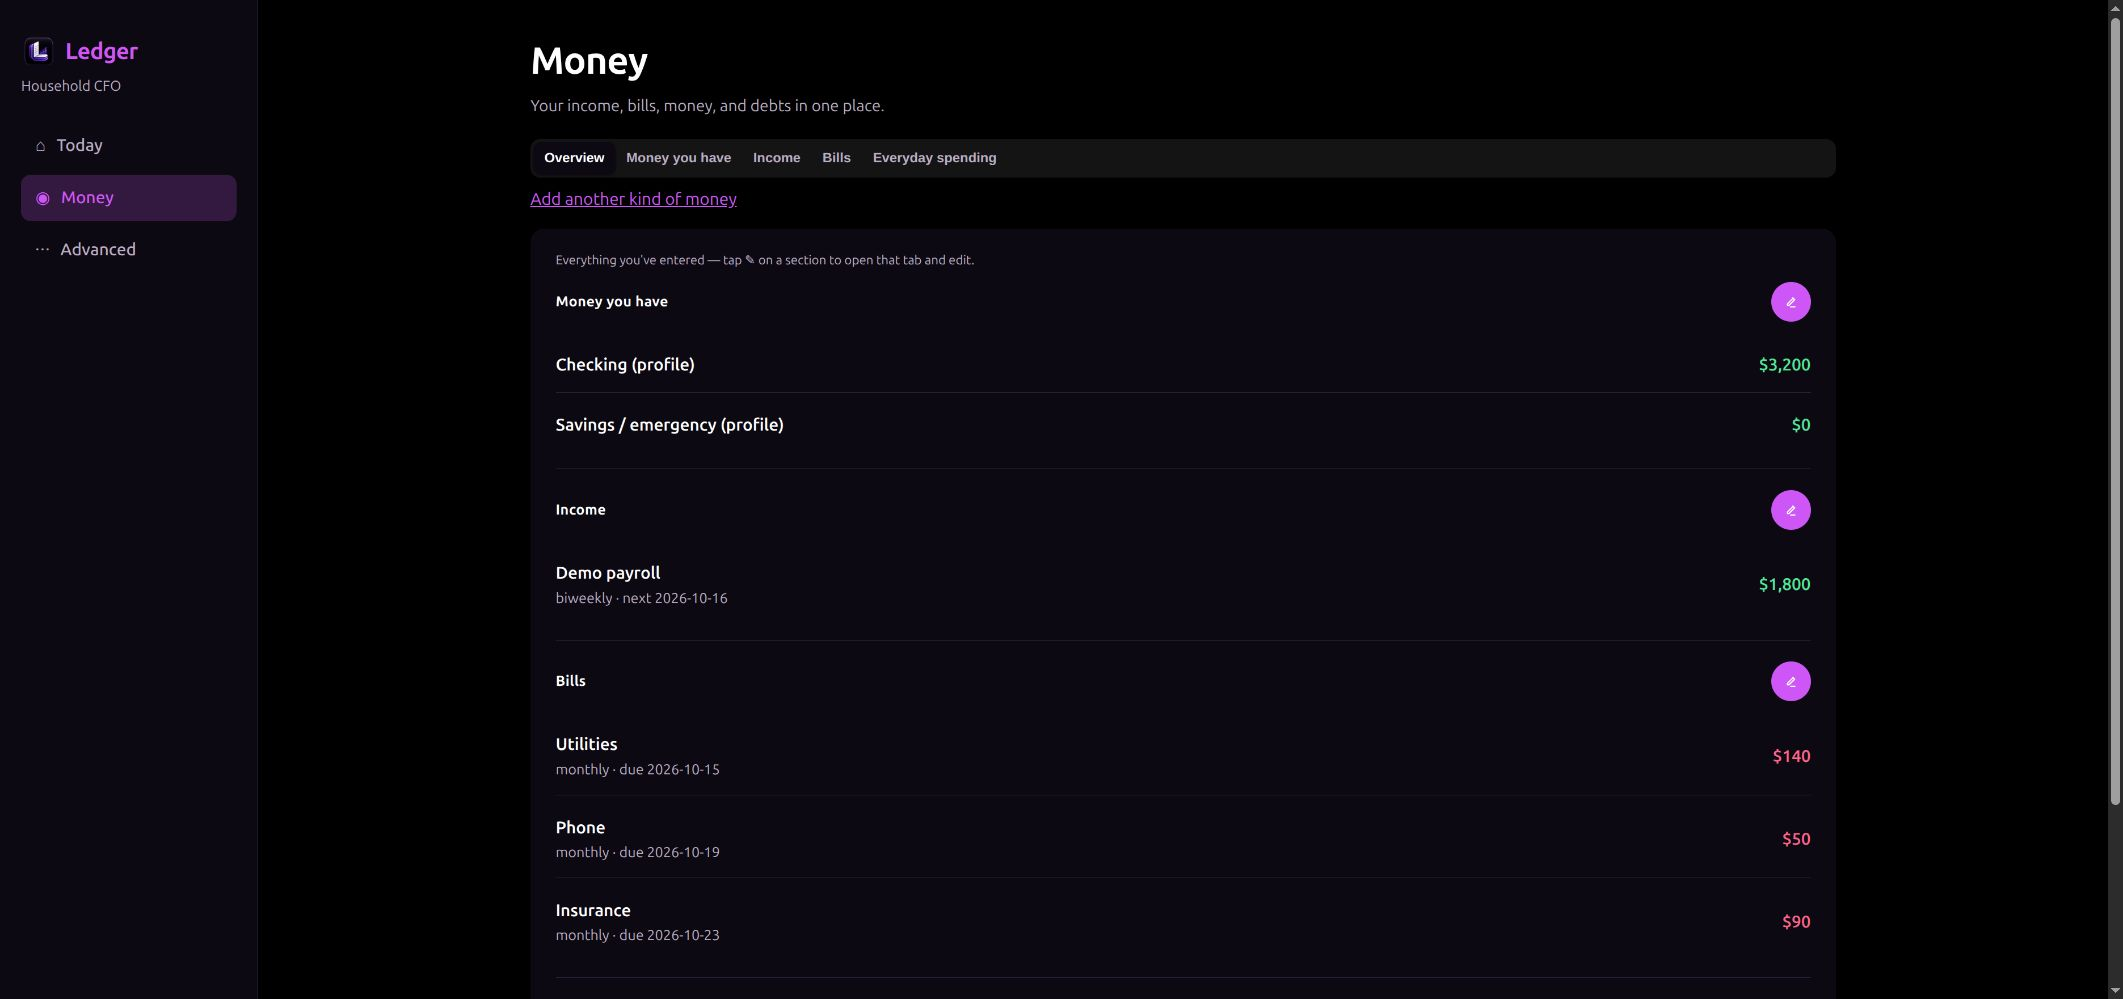
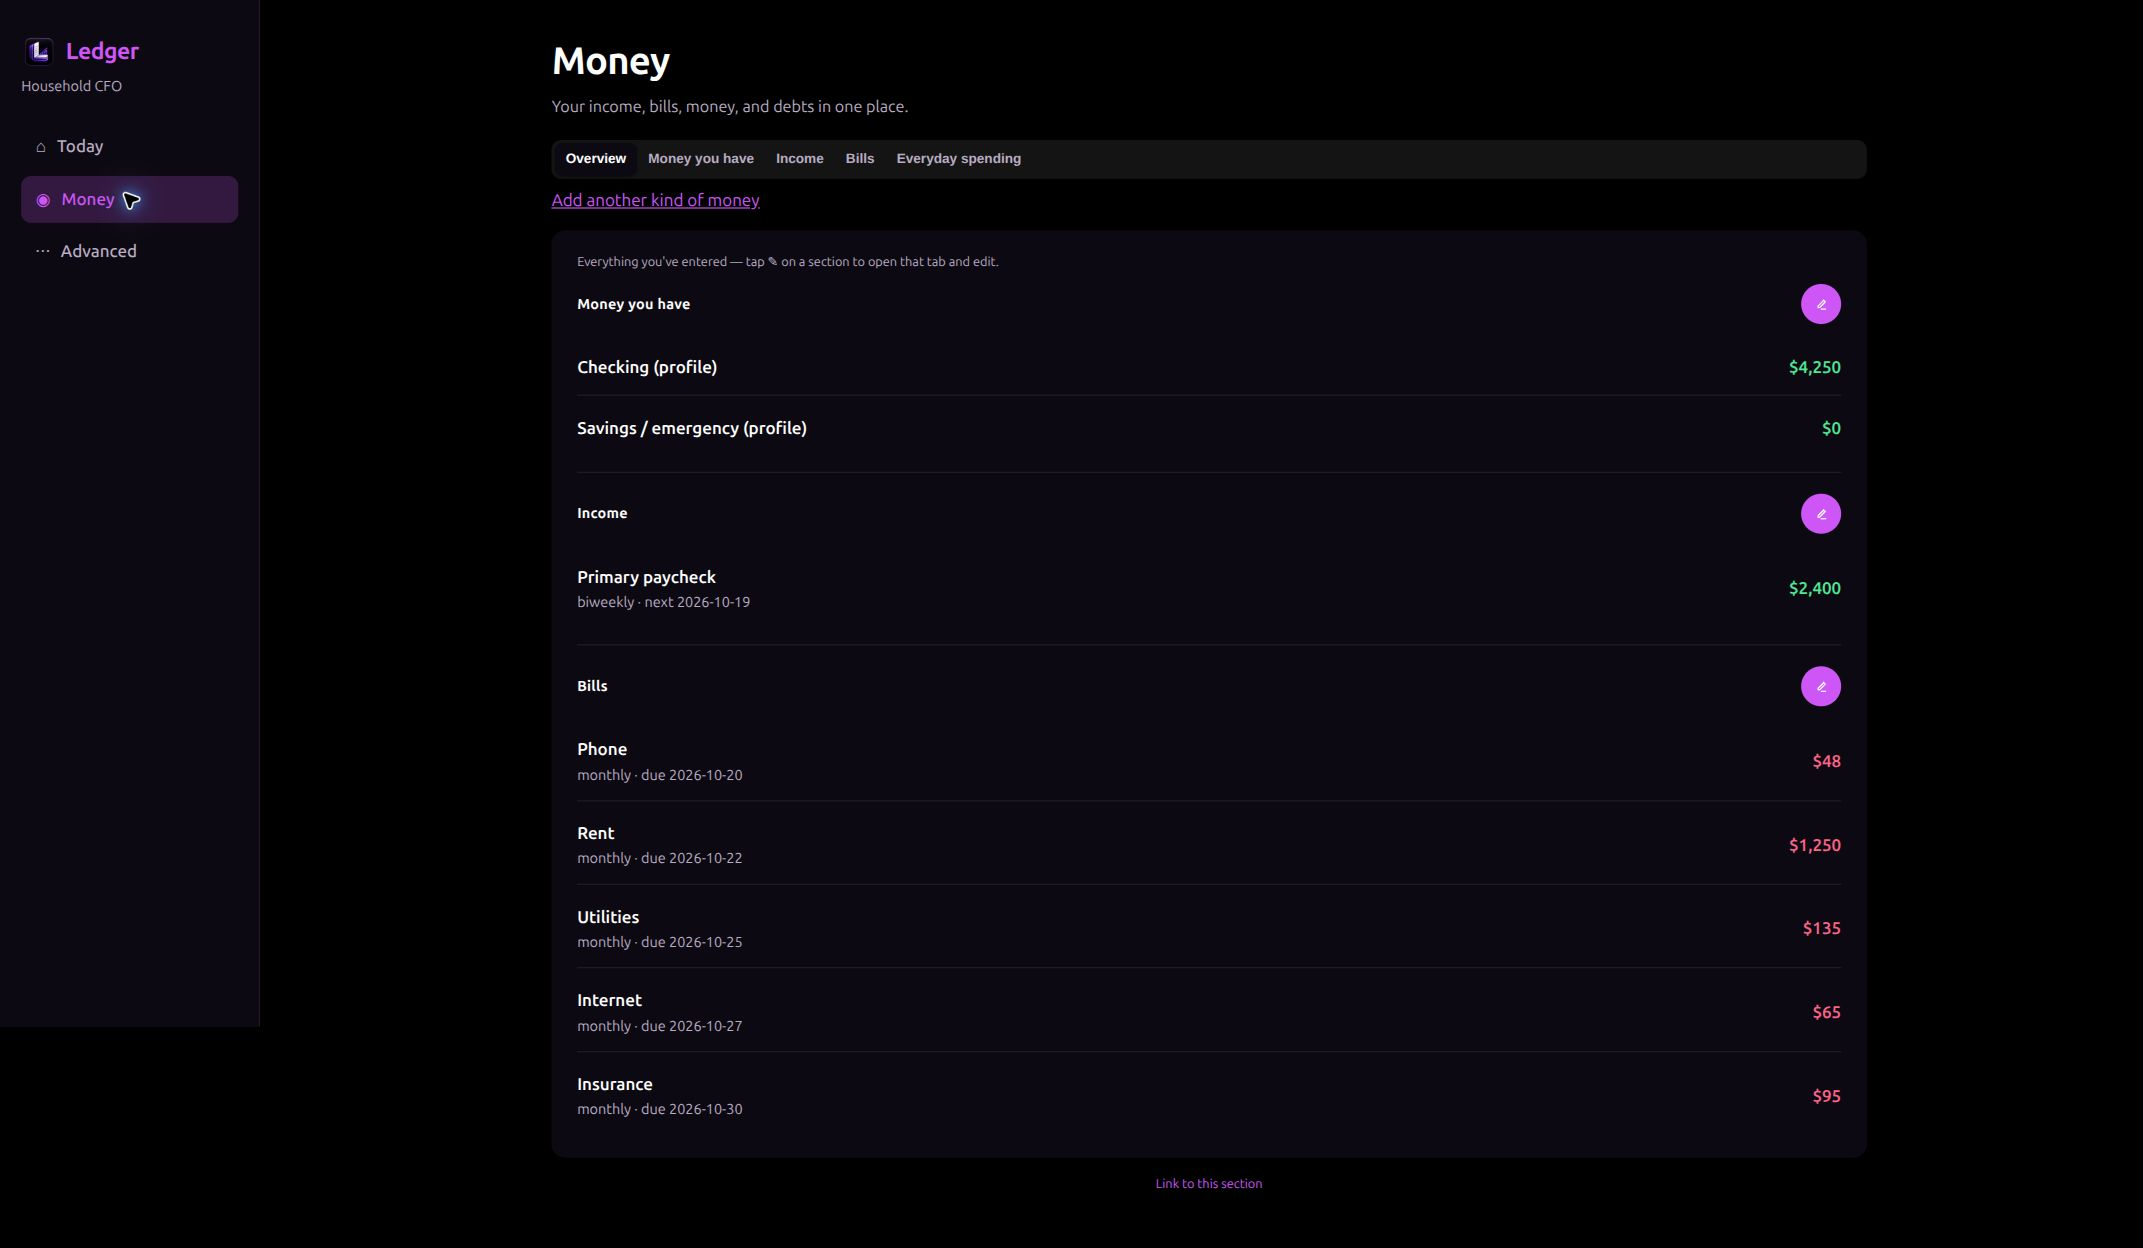
Release Ledger 1.1.0 under MIT with current documentation and actual screenshots

diff --git a/app/main.py b/app/main.py
@@ -78,7 +78,7 @@ async def lifespan(app: FastAPI):
     yield
 
 
-app = FastAPI(title="Ledger", version="1.0.1", lifespan=lifespan)
+app = FastAPI(title="Ledger", version="1.1.0", lifespan=lifespan)
 
 app.add_middleware(
     CORSMiddleware,

diff --git a/README.md b/README.md
@@ -4,18 +4,24 @@
 # Ledger
 ### Know what you can spend. Keep tomorrow covered.
 
-A local-first personal CFO with a built-in financial AI assistant and advanced cash-flow planning. Cover your bills, build your emergency cushion, and make more room for the things you enjoy—with a conservative allowance that helps your discretionary money last and grow over time.
+**Free and open source under MIT, including commercial use.** A local-first personal CFO with a built-in financial AI assistant and advanced cash-flow planning. Cover your bills, build your emergency cushion, and make more room for the things you enjoy—with a conservative allowance that helps your discretionary money last and grow over time.
 
 [Get started](#get-started) · [AI assistant](#your-built-in-financial-ai-assistant) · [Advanced planning](#advanced-planning-to-grow-your-disposable-income) · [Latest release](https://github.com/SketchOTP/Ledger/releases/latest) · [Privacy](docs/privacy.md)
 
 ![CI](https://github.com/SketchOTP/Ledger/actions/workflows/ci.yml/badge.svg)
-![License: PolyForm Noncommercial](https://img.shields.io/badge/license-PolyForm%20Noncommercial-blue)
+[![License: MIT](https://img.shields.io/badge/license-MIT-green.svg)](LICENSE)
 
 </div>
 
 ![Ledger Today dashboard with fictional household data](docs/screenshots/today-desktop.jpg)
 
 *Actual Ledger interface. All screenshots use fictional demo data.*
+
+## What’s new in v1.1.0
+
+Ledger is now MIT licensed: use it at home, adapt it for your workflow, or build on it commercially. This release brings together the latest paid/unpaid purchase behavior, conservative biweekly allowance, six-month planning, clear zero/negative-balance messages, and refreshed screenshots from the real app. Existing records remain compatible.
+
+[Download v1.1.0](https://github.com/SketchOTP/Ledger/releases/tag/v1.1.0) · [Explore Ledger on Animus Machinae](https://animusmachinae.com/releases/#ledger)
 
 ## Your money, at a glance
 
@@ -112,14 +118,14 @@ To update, back up first, then run `git pull --ff-only` and `docker compose up -
 
 The [release page](https://github.com/SketchOTP/Ledger/releases/latest) also includes:
 
-- **Ledger-v1.0.1.zip** — reviewed source plus the compiled web interface. Extract it and follow the Python setup below; you can skip the npm commands.
-- **Ledger-v1.0.1-linux-amd64-docker.tar.gz** — a ready-built image for x86-64 Linux containers. Download it, then:
+- **Ledger-v1.1.0.zip** — reviewed source plus the compiled web interface. Extract it and follow the Python setup below; you can skip the npm commands.
+- **Ledger-v1.1.0-linux-amd64-docker.tar.gz** — a ready-built image for x86-64 Linux containers. Download it, then:
 
 ```bash
-docker load -i Ledger-v1.0.1-linux-amd64-docker.tar.gz
+docker load -i Ledger-v1.1.0-linux-amd64-docker.tar.gz
 docker run -d --name ledger --restart unless-stopped \
   -p 127.0.0.1:9543:9543 \
-  -v ledger-data:/var/lib/ledger sketchotp/ledger:1.0.1
+  -v ledger-data:/var/lib/ledger sketchotp/ledger:1.1.0
 ```
 
 Open http://localhost:9543. The release includes SHA-256 checksums. For other architectures, build from source with Compose; the prebuilt image was verified on Linux amd64.
@@ -170,6 +176,6 @@ npm --prefix frontend run build
 
 Backend: FastAPI + SQLModel + SQLite. Frontend: React + TypeScript + Vite. Deterministic calculations precede optional AI explanations. Internal `LEDGERMIND_*` setting names are retained for compatibility.
 
-## License and commercial permission
+## License
 
-Copyright 2026 SketchOTP. Ledger is **source available under [PolyForm Noncommercial 1.0.0](LICENSE)**. You may use, modify, and share it for purposes permitted by that license. Selling Ledger, offering it as a paid service, or other commercial use requires separate written permission from the copyright holder. [Request commercial permission](https://github.com/SketchOTP/Ledger/issues/new?title=Commercial%20permission%20request); please keep financial records and secrets out of public issues. See [NOTICE](NOTICE) and [third-party notices](THIRD_PARTY_NOTICES.md).
+Copyright 2026 SketchOTP. Ledger v1.1.0 and later are **[MIT licensed](LICENSE)**: free to use, modify, redistribute, and use commercially, subject to retaining the copyright and permission notice. No separate commercial permission is required. Earlier release archives keep their original license notices. Third-party components retain their own terms; see [NOTICE](NOTICE) and [third-party notices](THIRD_PARTY_NOTICES.md).

diff --git a/docs/release-verification.md b/docs/release-verification.md
@@ -1,5 +1,23 @@
 # Ledger release verification
 
+## 1.1.0 — Free and open source
+
+Release preparation: 2026-10-15. Ledger is now MIT licensed, including commercial use. A source audit confirmed that the latest running application behavior is present in this public release, with public safe defaults and synthetic test fixtures preserved. No financial behavior or database schema changed for this release.
+
+| Check | Result |
+| --- | --- |
+| Full backend regression and warning baseline on locked dependencies | PASSED — 608 tests, zero warnings |
+| Reserve/chart regression | PASSED — 11 tests |
+| Ruff and production frontend build | PASSED |
+| npm audit | PASSED — zero reported vulnerabilities at preparation |
+| Fresh packaged Docker auth/signup, paid spending, unchanged checking and future expenses | PASSED |
+| SPA root, Money and login deep links | PASSED |
+| Docker/source/UI/notice/template/requirements identity | PASSED — 290 files |
+| Actual desktop/Money/mobile interface screenshots | PASSED — isolated fictional household; no real financial records |
+| Gitleaks 8.30.1 source scan | PASSED — zero findings; official tool archive checksum verified |
+
+Screenshots were captured on 2026-10-15 from the actual release application. The mobile viewport check found no horizontal content overflow. Optional AI was not invoked and no AI answer was fabricated for marketing. Existing v1.0.x archives retain their original published notices. GitHub Actions qualifies the exact published source revision; archive checksums and the ZIP build manifest identify the downloadable bytes.
+
 ## 1.0.1 — Paid or unpaid purchases
 
 Release preparation: 2026-10-10. The patch removes purchase pending states and duplicate reservations against owner-entered checking, including older recorded purchases. Future unpaid essentials and discretionary allowance usage remain protected. No database migration or purchase re-entry is required.

diff --git a/THIRD_PARTY_NOTICES.md b/THIRD_PARTY_NOTICES.md
@@ -1,6 +1,6 @@
 # Third-party notices
 
-Ledger's license applies to Ledger-authored code and assets. Dependencies retain their own licenses; the PolyForm restriction does not replace those terms.
+Ledger's license applies to Ledger-authored code and assets. Dependencies retain their own licenses; the MIT license does not replace those terms.
 
 Direct runtime dependencies include FastAPI (MIT), Uvicorn (BSD-3-Clause), SQLModel (MIT), Pydantic and pydantic-settings (MIT), python-multipart (Apache-2.0), OpenAI Python (Apache-2.0), jsonschema (MIT), HTTPX (BSD-3-Clause), pywebpush (MPL-2.0), APScheduler (MIT), React and React DOM (MIT), and React Router (MIT). Build/test tools and transitive dependencies retain their published terms.
 

diff --git a/CHANGELOG.md b/CHANGELOG.md
@@ -1,5 +1,12 @@
 # Changelog
 
+## 1.1.0 — Ledger, free and open source
+
+- Switch Ledger to MIT with explicit owner approval, including commercial use. Preserve earlier releases and third-party notices.
+- Audit the running app against public source: the latest planning, allowance, balance-status and paid/unpaid behavior is included.
+- Refresh the README, actual-interface screenshots with fictional records, setup and release downloads.
+- Publish Ledger on the Animus Machinae releases page. Existing household records remain compatible; no data migration is required.
+
 ## 1.0.1 — Paid or unpaid purchases
 
 - Remove the pending purchase stage for daily spending, groceries, and discretionary purchases.
